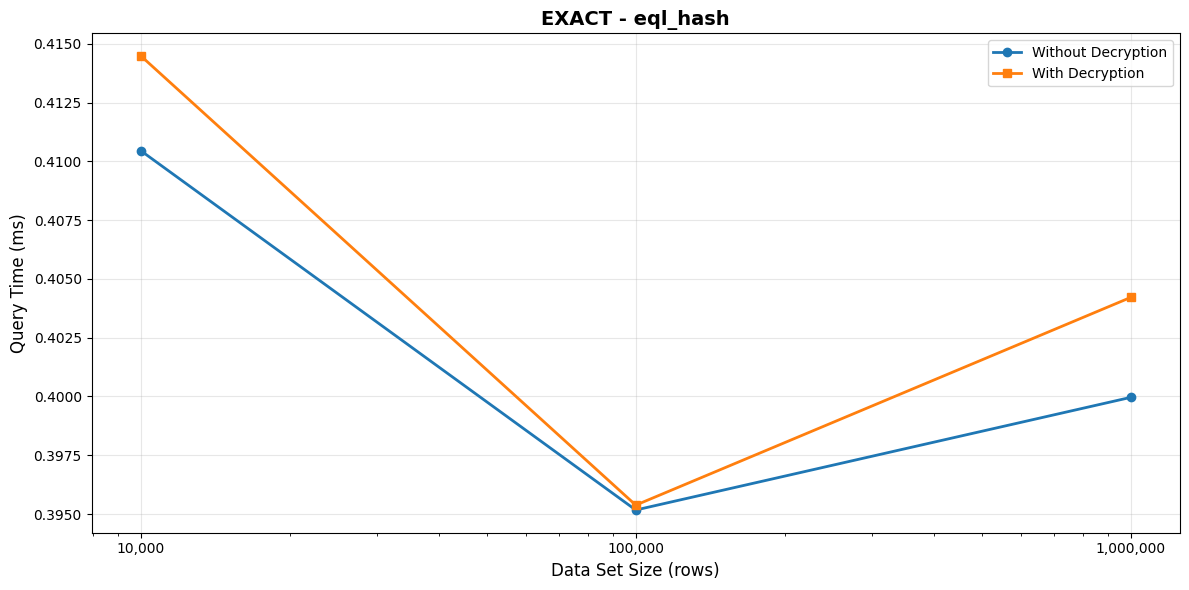
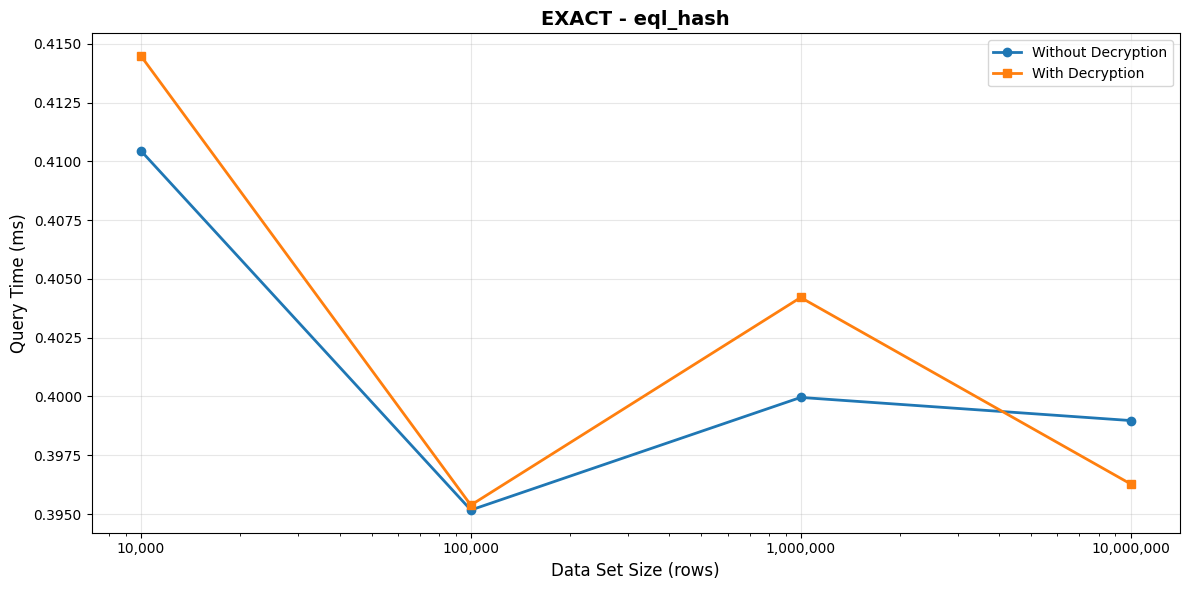
Added exact and match query benches for 10m rows

diff --git a/src/bin/encrypt_string.rs b/src/bin/encrypt_string.rs
@@ -11,6 +11,7 @@
 //! Environment variables:
 //! - DATABASE_URL: PostgreSQL connection string
 //! - NUM_RECORDS: Number of records to generate (default: 10000)
+//! - BATCH_SIZE: Number of records per batch insert (default: 1000)
 //! - TABLE_SUFFIX: Optional suffix for table name (e.g., _10000)
 //! - CS_CLIENT_ID: CipherStash client ID
 //! - CS_CLIENT_KEY: CipherStash client key  
@@ -32,12 +33,17 @@ async fn main() -> Result<()> {
         .parse()
         .expect("NUM_RECORDS must be a valid integer");
 
+    let batch_size: usize = env::var("BATCH_SIZE")
+        .unwrap_or_else(|_| "1000".to_string())
+        .parse()
+        .expect("BATCH_SIZE must be a valid integer");
+
     let table_suffix = env::var("TABLE_SUFFIX").unwrap_or_default();
     let table_name = format!("string_encrypted{}", table_suffix);
 
     IngestOptionsBuilder::new("encrypt_string")
         .num_records(num_records)
-        .batch_size(1000)
+        .batch_size(batch_size)
         .identifier(Identifier::new(&table_name, "value"))
         .column_config(
             ColumnConfig::build("value")

diff --git a/src/bin/encrypt_int.rs b/src/bin/encrypt_int.rs
@@ -13,6 +13,7 @@
 //! Environment variables:
 //! - DATABASE_URL: PostgreSQL connection string
 //! - NUM_RECORDS: Number of records to generate (default: 10000)
+//! - BATCH_SIZE: Number of records per batch insert (default: 1000)
 //! - TABLE_SUFFIX: Optional suffix for table name (e.g., _10000)
 //! - CS_CLIENT_ID: CipherStash client ID
 //! - CS_CLIENT_KEY: CipherStash client key  
@@ -34,12 +35,17 @@ async fn main() -> Result<()> {
         .parse()
         .expect("NUM_RECORDS must be a valid integer");
 
+    let batch_size: usize = env::var("BATCH_SIZE")
+        .unwrap_or_else(|_| "1000".to_string())
+        .parse()
+        .expect("BATCH_SIZE must be a valid integer");
+
     let table_suffix = env::var("TABLE_SUFFIX").unwrap_or_default();
     let table_name = format!("integer_encrypted{}", table_suffix);
 
     IngestOptionsBuilder::new("encrypt_int")
         .num_records(num_records)
-        .batch_size(1000)
+        .batch_size(batch_size)
         .identifier(Identifier::new(&table_name, "value"))
         .column_config(
             ColumnConfig::build("value")

diff --git a/src/bin/encrypt_json_large.rs b/src/bin/encrypt_json_large.rs
@@ -11,6 +11,7 @@
 //! Environment variables:
 //! - DATABASE_URL: PostgreSQL connection string
 //! - NUM_RECORDS: Number of records to generate (default: 10000)
+//! - BATCH_SIZE: Number of records per batch insert (default: 1000)
 //! - CS_CLIENT_ID: CipherStash client ID
 //! - CS_CLIENT_KEY: CipherStash client key  
 //! - CS_WORKSPACE_CRN: CipherStash workspace CRN
@@ -138,9 +139,14 @@ async fn main() -> Result<()> {
         .parse()
         .expect("NUM_RECORDS must be a valid integer");
 
+    let batch_size: usize = env::var("BATCH_SIZE")
+        .unwrap_or_else(|_| "1000".to_string())
+        .parse()
+        .expect("BATCH_SIZE must be a valid integer");
+
     IngestOptionsBuilder::new("encrypt_json_large")
         .num_records(num_records)
-        .batch_size(1000)
+        .batch_size(batch_size)
         .identifier(Identifier::new("json_large_encrypted", "value"))
         .column_config(
             ColumnConfig::build("value")

diff --git a/src/bin/encrypt_json_small.rs b/src/bin/encrypt_json_small.rs
@@ -10,6 +10,7 @@
 //! Environment variables:
 //! - DATABASE_URL: PostgreSQL connection string
 //! - NUM_RECORDS: Number of records to generate (default: 10000)
+//! - BATCH_SIZE: Number of records per batch insert (default: 1000)
 //! - CS_CLIENT_ID: CipherStash client ID
 //! - CS_CLIENT_KEY: CipherStash client key  
 //! - CS_WORKSPACE_CRN: CipherStash workspace CRN
@@ -52,9 +53,14 @@ async fn main() -> Result<()> {
         .parse()
         .expect("NUM_RECORDS must be a valid integer");
 
+    let batch_size: usize = env::var("BATCH_SIZE")
+        .unwrap_or_else(|_| "1000".to_string())
+        .parse()
+        .expect("BATCH_SIZE must be a valid integer");
+
     IngestOptionsBuilder::new("encrypt_json_small")
         .num_records(num_records)
-        .batch_size(1000)
+        .batch_size(batch_size)
         .identifier(Identifier::new("json_small_encrypted", "value"))
         .column_config(
             ColumnConfig::build("value")

diff --git a/report/BENCHMARK_REPORT.md b/report/BENCHMARK_REPORT.md
@@ -99,6 +99,7 @@ ON string_encrypted_10000 (
 | 10,000 | ⚠ 119.93ms | ⚠ 122.15ms |
 | 100,000 | ⚠ 1.669s | ⚠ 787.01ms |
 | 1,000,000 | ⚠ 7.827s | ⚠ 7.836s |
+| 10,000,000 | ⚠ 79.899s | ⚠ 93.837s |
 
 ![Query Performance - EXACT/eql_cast](query_exact_eql_cast_chart.png)
 
@@ -141,6 +142,7 @@ ON string_encrypted_10000 (
 | 10,000 | 410.44μs | 414.48μs |
 | 100,000 | 395.17μs | 395.38μs |
 | 1,000,000 | 399.96μs | 404.21μs |
+| 10,000,000 | 398.98μs | 396.28μs |
 
 ![Query Performance - EXACT/eql_hash](query_exact_eql_hash_chart.png)
 
@@ -180,11 +182,14 @@ ON string_encrypted_10000 (
 );
 ```
 
+*⚠ = Query time exceeds 100ms*
+
 | Data Set Size | Query Time (no decrypt) | Query Time (with decrypt) |
 |---------------|-------------------------|---------------------------|
 | 10,000 | 930.90μs | 63.38ms |
 | 100,000 | 3.35ms | 68.21ms |
 | 1,000,000 | 21.23ms | 83.97ms |
+| 10,000,000 | ⚠ 195.96ms | ⚠ 262.86ms |
 
 ![Query Performance - MATCH/eql_bloom](query_match_eql_bloom_chart.png)
 
@@ -229,6 +234,7 @@ ON string_encrypted_10000 (
 | 10,000 | ⚠ 263.49ms | ⚠ 321.93ms |
 | 100,000 | ⚠ 341.72ms | ⚠ 401.96ms |
 | 1,000,000 | ⚠ 399.14ms | ⚠ 450.21ms |
+| 10,000,000 | ⚠ 410.74ms | ⚠ 487.84ms |
 
 ![Query Performance - MATCH/eql_cast_firstname](query_match_eql_cast_firstname_chart.png)
 
@@ -273,6 +279,7 @@ ON string_encrypted_10000 (
 | 10,000 | ⚠ 146.33ms | ⚠ 205.98ms |
 | 100,000 | ⚠ 119.51ms | ⚠ 177.16ms |
 | 1,000,000 | ⚠ 127.20ms | ⚠ 190.63ms |
+| 10,000,000 | ⚠ 142.95ms | ⚠ 195.97ms |
 
 ![Query Performance - MATCH/eql_cast_lastname](query_match_eql_cast_lastname_chart.png)
 
